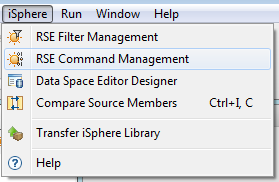
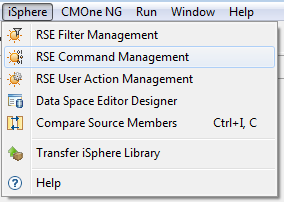
Added help page for iSphere User Action Management.

diff --git a/eclipse/iSphere Help Core/html/useractionmanagement/useractionmanagement.html b/eclipse/iSphere Help Core/html/useractionmanagement/useractionmanagement.html
@@ -1,0 +1,98 @@
+<!DOCTYPE HTML PUBLIC "-//W3C//DTD HTML 4.0 Transitional//EN">
+
+<html>
+<head>
+<meta http-equiv="Content-Type" content="text/html; charset=iso-8859-1">
+<link rel="stylesheet" type="text/css" href="../stylesheet.css">
+<title>RSE User Action Management</title>
+</head>
+
+<body>
+	<h1>RSE User Action Management</h1>
+	<p>With iSphere RSE User Action Management you can export some or all
+		user actions from your workspace to a repository. A repository is an XML
+		file on your local PC or a network drive. You can then import some or
+		all user actions from a repository to your workspace. The repository can
+		act as a backup for your user actions.
+	<p>Here are some other scenarios where you might find User Action
+		Management useful:
+	<p>
+	<ul>
+		<li>Your workspace is corrupted and you need to create a new one.
+			In this case you can export your user actions from the old workspace and
+			import them into the new one.</li>
+		<li>You want to share your user actions with your colleagues.</li>
+		<li>You have RDi installed on a computer in your office and at
+			home and want to synchronize your user actions.</li>
+	</ul>
+	<p>
+		To open the iSphere RSE User Action Management dialog, open the <i>iSphere</i> menu 
+		click on the <i>Sun</i> icon labeled with <i>RSE User Action Management</i>.
+	<p>
+		<img src="assets/user_action_manager_open.png" align="middle">
+	<h2>Choosing what to Manage</h2>
+	<p>You now need to specify what you want to manage, and also the
+		repository name:
+	<p>
+	<p>
+		<img src="assets/rse_user_action_management_manage_choose.png"
+			align="middle">
+	<h3>Editing Area</h3>
+	<p>The user actions in the workspace and in the repository will be
+		displayed in up to four separate horizontal panes.
+	<p>
+	<ul>
+		<li>Edit workspace and repository user actions</li>
+		<li>Edit only workspace user actions</li>
+		<li>Edit only repository user actions</li>
+	</ul>
+
+	Click the appropriate button. The default,
+	<i>Edit workspace and repository user actions</i>, is suitable for the first
+	time you want to create a new repository. With this option you can:
+	<ul>
+	<li>Push user actions from the workspace to the repository and vice versa.</li>
+	<li>Delete user actions from the workspace.</li>
+	<li>Delete user actions from the repository.</li>
+	</ul>
+	<p>The next two option, <i>Edit only workspace user actions</i> and 
+	<i>Edit only repository user actions</i> are suitable for removing commands from
+	the workspace or the repository.
+	<h3>Profile</h3>
+	Select the profile that contains the user actions you want to manage.
+	<h3>Single Domain</h3>
+	If this is checked, then you will need to select a domain using
+	the	<i>Domain</i> drop down. Only user actions of the selected domain
+	will be considered for action, and the domain type will not be
+	saved.
+	<P>If this is unchecked, then all user actions will be considered for
+		action and the connections between user actions and domains will be
+		saved.
+	<h3>Domain</h3>
+	Use this option to specify the domain you want to manage, when 
+	<i>Single domain</i> is checked.
+	<h3>Repository</h3>
+	Specify the location and name of the repository. A single domain
+	repository must have a suffix of
+	<b> .rseuda</b> and a repository for all user actions must have a suffix of
+	<b> .rseudaall</b>.
+	<p>
+	<h2>Managing User Actions</h2>
+	Basically managing user actions follows the pattern of managing filters. Therefore
+	you are asked to refer to chapter <a href="../filtermanagement/filtermanagement.html#exporting_all_filters_for_the_first_time">RSE Filter Managing</a>
+	to see how managing RSE resources works.
+	<p>
+	<h2>Restrictions</h2>
+	<table>
+		<tr>
+			<td class="notice">Note: User actions do not have an <i>order</i> attribute in
+			                   WDSCi. Therefore user actions pushed to a WDSCi workspace cannot
+			                   be added to the position stored in the XML file, but are added
+			                   to the end of the list.</td>
+		</tr>
+	</table>
+	<p>
+		<iframe src="../copyright.html" width="100%" frameborder="0"
+			marginheight="0" marginwidth="0"></iframe>
+</body>
+</html>
